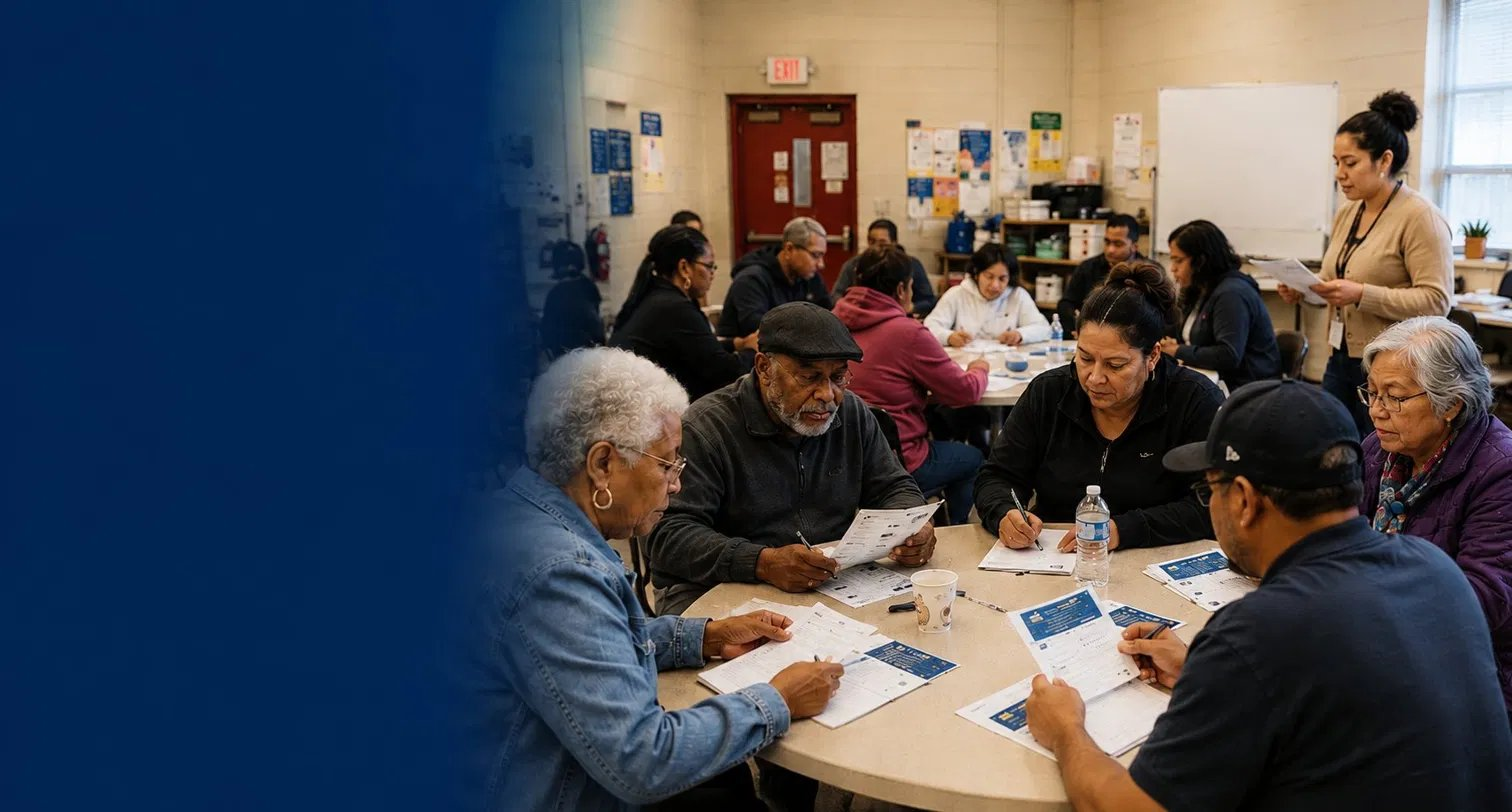
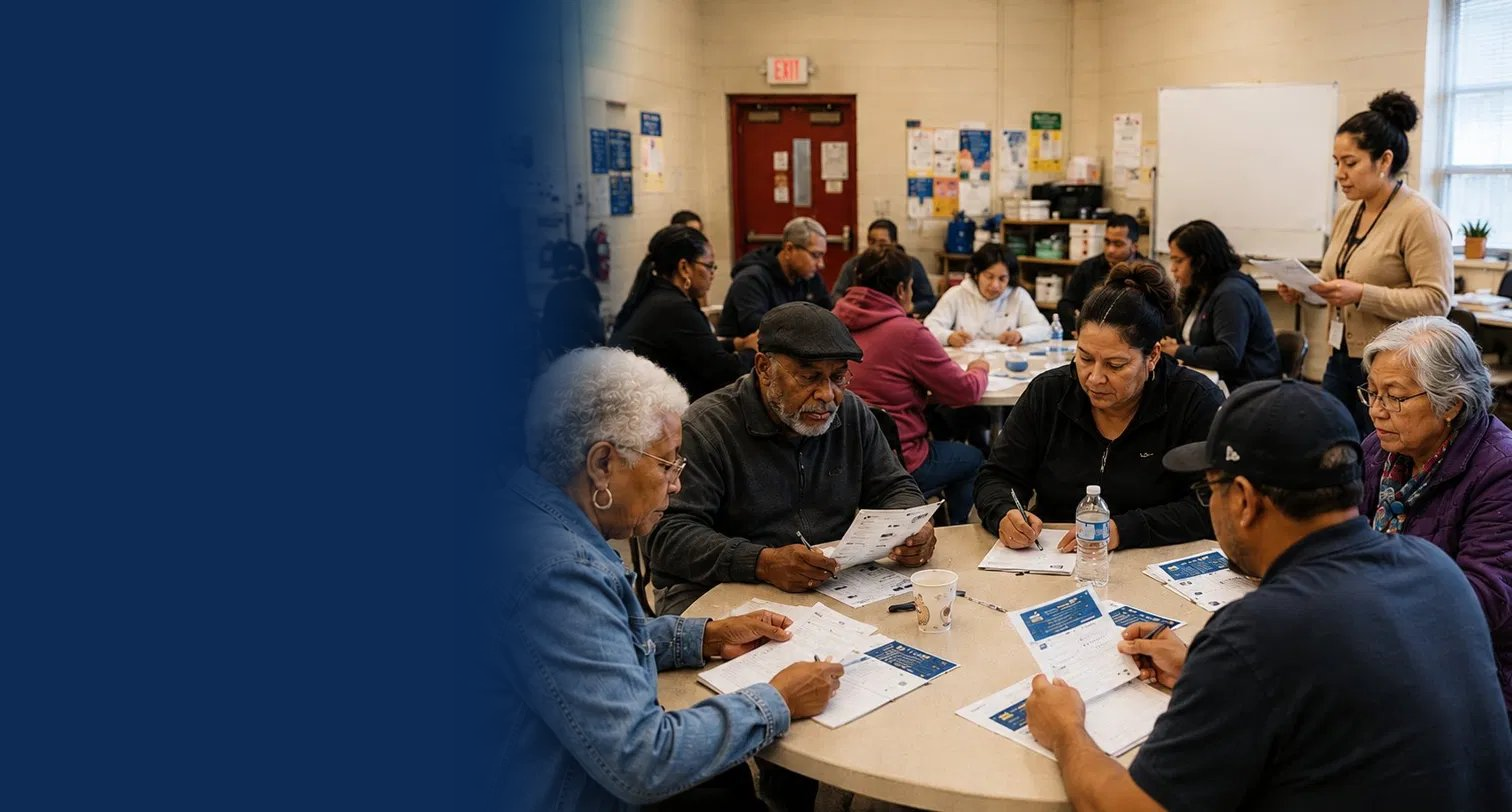
Add files via upload

Changed region(s): [[0.3419, 0.431, 0.4041, 0.8313], [0.3419, 0.0, 0.4041, 0.3079], [0.3419, 0.8929, 0.373, 0.9236]]

diff --git a/index.html b/index.html
@@ -200,16 +200,16 @@
   }
   .nav-logo .name {
     font-family: var(--serif);
-    font-size: 36px; font-weight: 700;
+    font-size: 42px; font-weight: 700;
     color: var(--gold);
     letter-spacing: 0.3px;
   }
   .nav-logo .tagline {
-    font-size: 12px; font-weight: 500;
+    font-size: 11px; font-weight: 500;
     color: rgba(255,255,255,0.5);
-    letter-spacing: 2.5px;
+    letter-spacing: 3px;
     text-transform: uppercase;
-    margin-top: 3px;
+    margin-top: 2px;
   }
 
   .nav-links {
@@ -247,13 +247,13 @@
 
   /* ─── HERO ─── */
   .hero {
-    background: linear-gradient(to right, rgba(13,43,85,1) 28%, rgba(13,43,85,0.55) 50%, rgba(13,43,85,0) 72%), url("hero-home.png") left center / cover no-repeat;
+    background: linear-gradient(to right, rgba(13,43,85,1) 0%, rgba(13,43,85,1) 38%, rgba(13,43,85,0.4) 55%, rgba(13,43,85,0) 68%), url("hero-home.png") center center / cover no-repeat;
     padding: 88px 48px 96px;
     position: relative; overflow: hidden;
   }
   
   
-  .hero-inner { max-width: 720px; position: relative; z-index: 1; }
+  .hero-inner { max-width: 560px; position: relative; z-index: 1; }
   .hero-badge {
     display: inline-flex; align-items: center; gap: 8px;
     background: rgba(232,160,32,0.15);
@@ -262,19 +262,21 @@
     font-size: 11px; font-weight: 600; letter-spacing: 2px;
     text-transform: uppercase;
     padding: 7px 18px; border-radius: 24px;
-    margin-bottom: 28px;
+    margin-bottom: 24px;
   }
   .hero h1 {
     font-family: var(--serif);
-    font-size: 54px; font-weight: 700; line-height: 1.12;
+    font-size: 58px; font-weight: 800; line-height: 1.08;
     color: var(--white);
-    margin-bottom: 24px;
+    margin-bottom: 20px;
+    text-shadow: 0 2px 14px rgba(0,0,0,0.45);
   }
-  .hero h1 em { color: var(--gold); font-style: normal; }
+  .hero h1 em { color: var(--gold); font-style: normal; font-weight: 800; }
   .hero p {
-    font-size: 17.5px; font-weight: 300; line-height: 1.75;
-    color: rgba(255,255,255,0.72);
-    max-width: 600px; margin-bottom: 40px;
+    font-size: 16.5px; font-weight: 400; line-height: 1.7;
+    color: rgba(255,255,255,0.85);
+    max-width: 500px; margin-bottom: 36px;
+    text-shadow: 0 1px 8px rgba(0,0,0,0.5);
   }
   .hero-btns { display: flex; gap: 14px; flex-wrap: wrap; }
   .btn-primary {
@@ -622,7 +624,7 @@
     .nav-toggle { display: flex; }
 
     .hero {
-    background: linear-gradient(to right, rgba(13,43,85,1) 28%, rgba(13,43,85,0.55) 50%, rgba(13,43,85,0) 72%), url("hero-home.png") left center / cover no-repeat;
+    background: linear-gradient(to right, rgba(13,43,85,1) 0%, rgba(13,43,85,1) 38%, rgba(13,43,85,0.4) 55%, rgba(13,43,85,0) 68%), url("hero-home.png") center center / cover no-repeat;
     padding: 88px 48px 96px;
     position: relative; overflow: hidden;
   }

diff --git a/career-readiness.html b/career-readiness.html
@@ -65,7 +65,7 @@
 
   /* HERO */
   .hero {
-    background: linear-gradient(to right, rgba(13,43,85,1) 28%, rgba(13,43,85,0.55) 50%, rgba(13,43,85,0) 72%), url("hero-career.png") left center / cover no-repeat;
+    background: linear-gradient(to right, rgba(13,43,85,1) 0%, rgba(13,43,85,1) 38%, rgba(13,43,85,0.4) 55%, rgba(13,43,85,0) 68%), url("hero-career.png") center center / cover no-repeat;
     padding: 72px 48px 80px;
     position: relative; overflow: hidden;
   }
@@ -158,7 +158,7 @@
     .nav-links li:last-child a { margin: 8px 24px 0; border-radius: 8px; }
     .nav-toggle { display: flex; }
     .hero {
-    background: linear-gradient(to right, rgba(13,43,85,1) 28%, rgba(13,43,85,0.55) 50%, rgba(13,43,85,0) 72%), url("hero-career.png") left center / cover no-repeat;
+    background: linear-gradient(to right, rgba(13,43,85,1) 0%, rgba(13,43,85,1) 38%, rgba(13,43,85,0.4) 55%, rgba(13,43,85,0) 68%), url("hero-career.png") center center / cover no-repeat;
     padding: 72px 48px 80px;
     position: relative; overflow: hidden;
   }

diff --git a/community-wellness.html b/community-wellness.html
@@ -65,7 +65,7 @@
 
   /* HERO */
   .hero {
-    background: linear-gradient(to right, rgba(13,43,85,1) 28%, rgba(13,43,85,0.55) 50%, rgba(13,43,85,0) 72%), url("hero-community.png") left center / cover no-repeat;
+    background: linear-gradient(to right, rgba(13,43,85,1) 0%, rgba(13,43,85,1) 38%, rgba(13,43,85,0.4) 55%, rgba(13,43,85,0) 68%), url("hero-community.png") center center / cover no-repeat;
     padding: 72px 48px 80px;
     position: relative; overflow: hidden;
   }
@@ -158,7 +158,7 @@
     .nav-links li:last-child a { margin: 8px 24px 0; border-radius: 8px; }
     .nav-toggle { display: flex; }
     .hero {
-    background: linear-gradient(to right, rgba(13,43,85,1) 28%, rgba(13,43,85,0.55) 50%, rgba(13,43,85,0) 72%), url("hero-community.png") left center / cover no-repeat;
+    background: linear-gradient(to right, rgba(13,43,85,1) 0%, rgba(13,43,85,1) 38%, rgba(13,43,85,0.4) 55%, rgba(13,43,85,0) 68%), url("hero-community.png") center center / cover no-repeat;
     padding: 72px 48px 80px;
     position: relative; overflow: hidden;
   }

diff --git a/digital-banking.html b/digital-banking.html
@@ -65,7 +65,7 @@
 
   /* HERO */
   .hero {
-    background: linear-gradient(to right, rgba(13,43,85,1) 28%, rgba(13,43,85,0.55) 50%, rgba(13,43,85,0) 72%), url("hero-digital.png") left center / cover no-repeat;
+    background: linear-gradient(to right, rgba(13,43,85,1) 0%, rgba(13,43,85,1) 38%, rgba(13,43,85,0.4) 55%, rgba(13,43,85,0) 68%), url("hero-digital.png") center center / cover no-repeat;
     padding: 72px 48px 80px;
     position: relative; overflow: hidden;
   }
@@ -158,7 +158,7 @@
     .nav-links li:last-child a { margin: 8px 24px 0; border-radius: 8px; }
     .nav-toggle { display: flex; }
     .hero {
-    background: linear-gradient(to right, rgba(13,43,85,1) 28%, rgba(13,43,85,0.55) 50%, rgba(13,43,85,0) 72%), url("hero-digital.png") left center / cover no-repeat;
+    background: linear-gradient(to right, rgba(13,43,85,1) 0%, rgba(13,43,85,1) 38%, rgba(13,43,85,0.4) 55%, rgba(13,43,85,0) 68%), url("hero-digital.png") center center / cover no-repeat;
     padding: 72px 48px 80px;
     position: relative; overflow: hidden;
   }

diff --git a/entrepreneurship.html b/entrepreneurship.html
@@ -65,7 +65,7 @@
 
   /* HERO */
   .hero {
-    background: linear-gradient(to right, rgba(13,43,85,1) 28%, rgba(13,43,85,0.55) 50%, rgba(13,43,85,0) 72%), url("hero-entrepreneurship.png") left center / cover no-repeat;
+    background: linear-gradient(to right, rgba(13,43,85,1) 0%, rgba(13,43,85,1) 38%, rgba(13,43,85,0.4) 55%, rgba(13,43,85,0) 68%), url("hero-entrepreneurship.png") center center / cover no-repeat;
     padding: 72px 48px 80px;
     position: relative; overflow: hidden;
   }
@@ -158,7 +158,7 @@
     .nav-links li:last-child a { margin: 8px 24px 0; border-radius: 8px; }
     .nav-toggle { display: flex; }
     .hero {
-    background: linear-gradient(to right, rgba(13,43,85,1) 28%, rgba(13,43,85,0.55) 50%, rgba(13,43,85,0) 72%), url("hero-entrepreneurship.png") left center / cover no-repeat;
+    background: linear-gradient(to right, rgba(13,43,85,1) 0%, rgba(13,43,85,1) 38%, rgba(13,43,85,0.4) 55%, rgba(13,43,85,0) 68%), url("hero-entrepreneurship.png") center center / cover no-repeat;
     padding: 72px 48px 80px;
     position: relative; overflow: hidden;
   }

diff --git a/reentry-empowerment.html b/reentry-empowerment.html
@@ -65,7 +65,7 @@
 
   /* HERO */
   .hero {
-    background: linear-gradient(to right, rgba(13,43,85,1) 28%, rgba(13,43,85,0.55) 50%, rgba(13,43,85,0) 72%), url("hero-reentry.png") left center / cover no-repeat;
+    background: linear-gradient(to right, rgba(13,43,85,1) 0%, rgba(13,43,85,1) 38%, rgba(13,43,85,0.4) 55%, rgba(13,43,85,0) 68%), url("hero-reentry.png") center center / cover no-repeat;
     padding: 72px 48px 80px;
     position: relative; overflow: hidden;
   }
@@ -158,7 +158,7 @@
     .nav-links li:last-child a { margin: 8px 24px 0; border-radius: 8px; }
     .nav-toggle { display: flex; }
     .hero {
-    background: linear-gradient(to right, rgba(13,43,85,1) 28%, rgba(13,43,85,0.55) 50%, rgba(13,43,85,0) 72%), url("hero-reentry.png") left center / cover no-repeat;
+    background: linear-gradient(to right, rgba(13,43,85,1) 0%, rgba(13,43,85,1) 38%, rgba(13,43,85,0.4) 55%, rgba(13,43,85,0) 68%), url("hero-reentry.png") center center / cover no-repeat;
     padding: 72px 48px 80px;
     position: relative; overflow: hidden;
   }

diff --git a/workforce-readiness.html b/workforce-readiness.html
@@ -65,7 +65,7 @@
 
   /* HERO */
   .hero {
-    background: linear-gradient(to right, rgba(13,43,85,1) 28%, rgba(13,43,85,0.55) 50%, rgba(13,43,85,0) 72%), url("hero-workforce.png") left center / cover no-repeat;
+    background: linear-gradient(to right, rgba(13,43,85,1) 0%, rgba(13,43,85,1) 38%, rgba(13,43,85,0.4) 55%, rgba(13,43,85,0) 68%), url("hero-workforce.png") center center / cover no-repeat;
     padding: 72px 48px 80px;
     position: relative; overflow: hidden;
   }
@@ -158,7 +158,7 @@
     .nav-links li:last-child a { margin: 8px 24px 0; border-radius: 8px; }
     .nav-toggle { display: flex; }
     .hero {
-    background: linear-gradient(to right, rgba(13,43,85,1) 28%, rgba(13,43,85,0.55) 50%, rgba(13,43,85,0) 72%), url("hero-workforce.png") left center / cover no-repeat;
+    background: linear-gradient(to right, rgba(13,43,85,1) 0%, rgba(13,43,85,1) 38%, rgba(13,43,85,0.4) 55%, rgba(13,43,85,0) 68%), url("hero-workforce.png") center center / cover no-repeat;
     padding: 72px 48px 80px;
     position: relative; overflow: hidden;
   }

diff --git a/youth-financial-literacy.html b/youth-financial-literacy.html
@@ -65,7 +65,7 @@
 
   /* HERO */
   .hero {
-    background: linear-gradient(to right, rgba(13,43,85,1) 28%, rgba(13,43,85,0.55) 50%, rgba(13,43,85,0) 72%), url("hero-youth.png") left center / cover no-repeat;
+    background: linear-gradient(to right, rgba(13,43,85,1) 0%, rgba(13,43,85,1) 38%, rgba(13,43,85,0.4) 55%, rgba(13,43,85,0) 68%), url("hero-youth.png") center center / cover no-repeat;
     padding: 72px 48px 80px;
     position: relative; overflow: hidden;
   }
@@ -158,7 +158,7 @@
     .nav-links li:last-child a { margin: 8px 24px 0; border-radius: 8px; }
     .nav-toggle { display: flex; }
     .hero {
-    background: linear-gradient(to right, rgba(13,43,85,1) 28%, rgba(13,43,85,0.55) 50%, rgba(13,43,85,0) 72%), url("hero-youth.png") left center / cover no-repeat;
+    background: linear-gradient(to right, rgba(13,43,85,1) 0%, rgba(13,43,85,1) 38%, rgba(13,43,85,0.4) 55%, rgba(13,43,85,0) 68%), url("hero-youth.png") center center / cover no-repeat;
     padding: 72px 48px 80px;
     position: relative; overflow: hidden;
   }